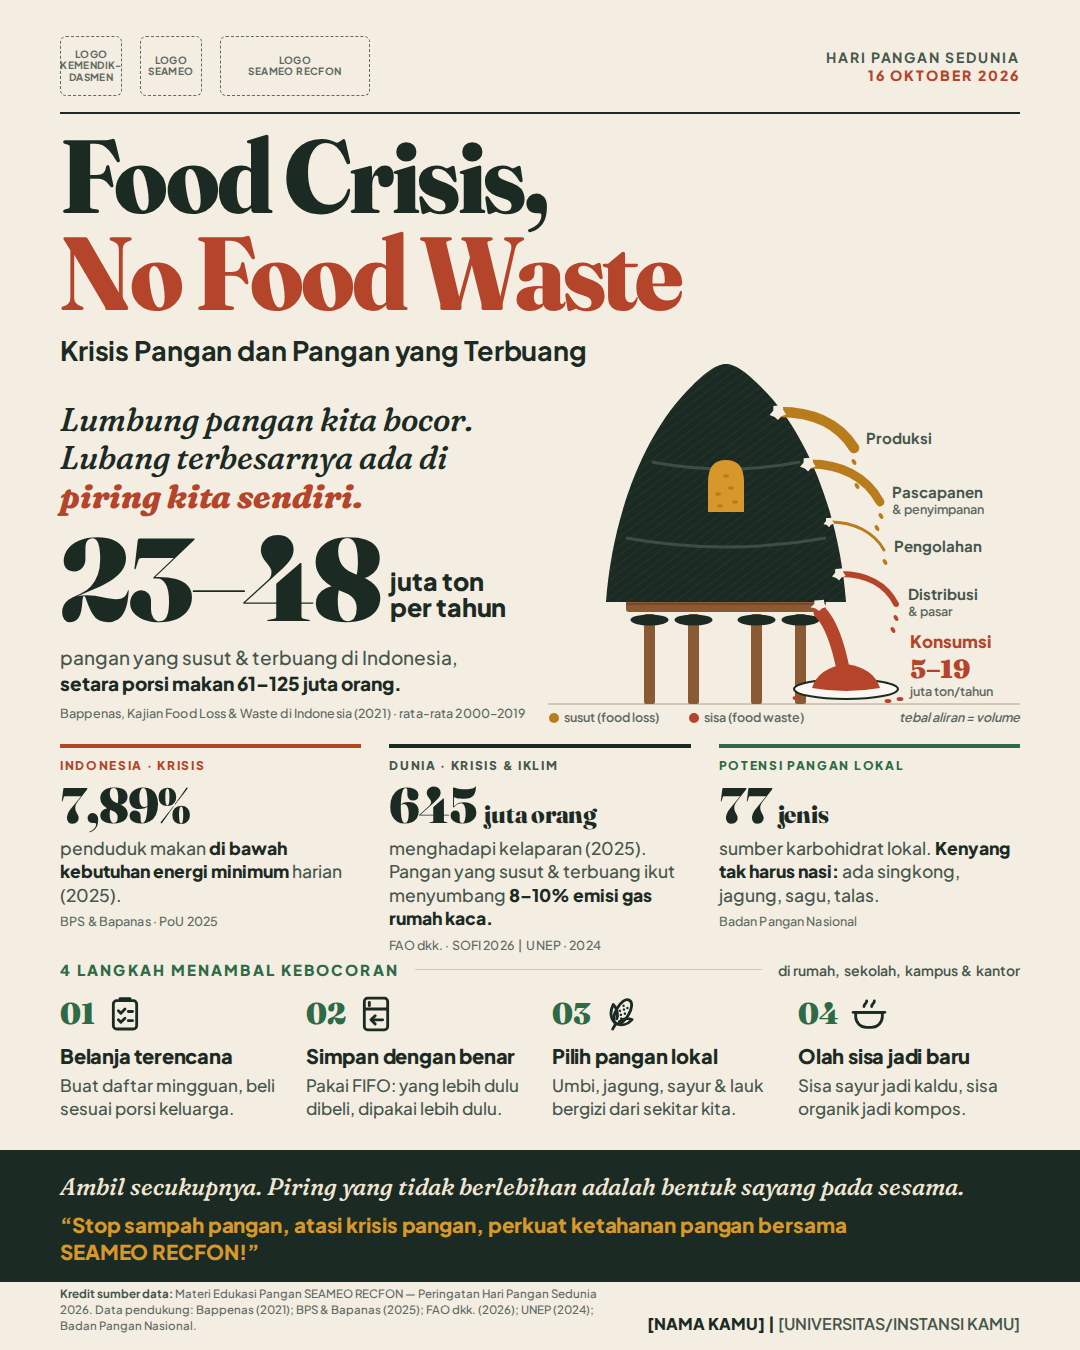
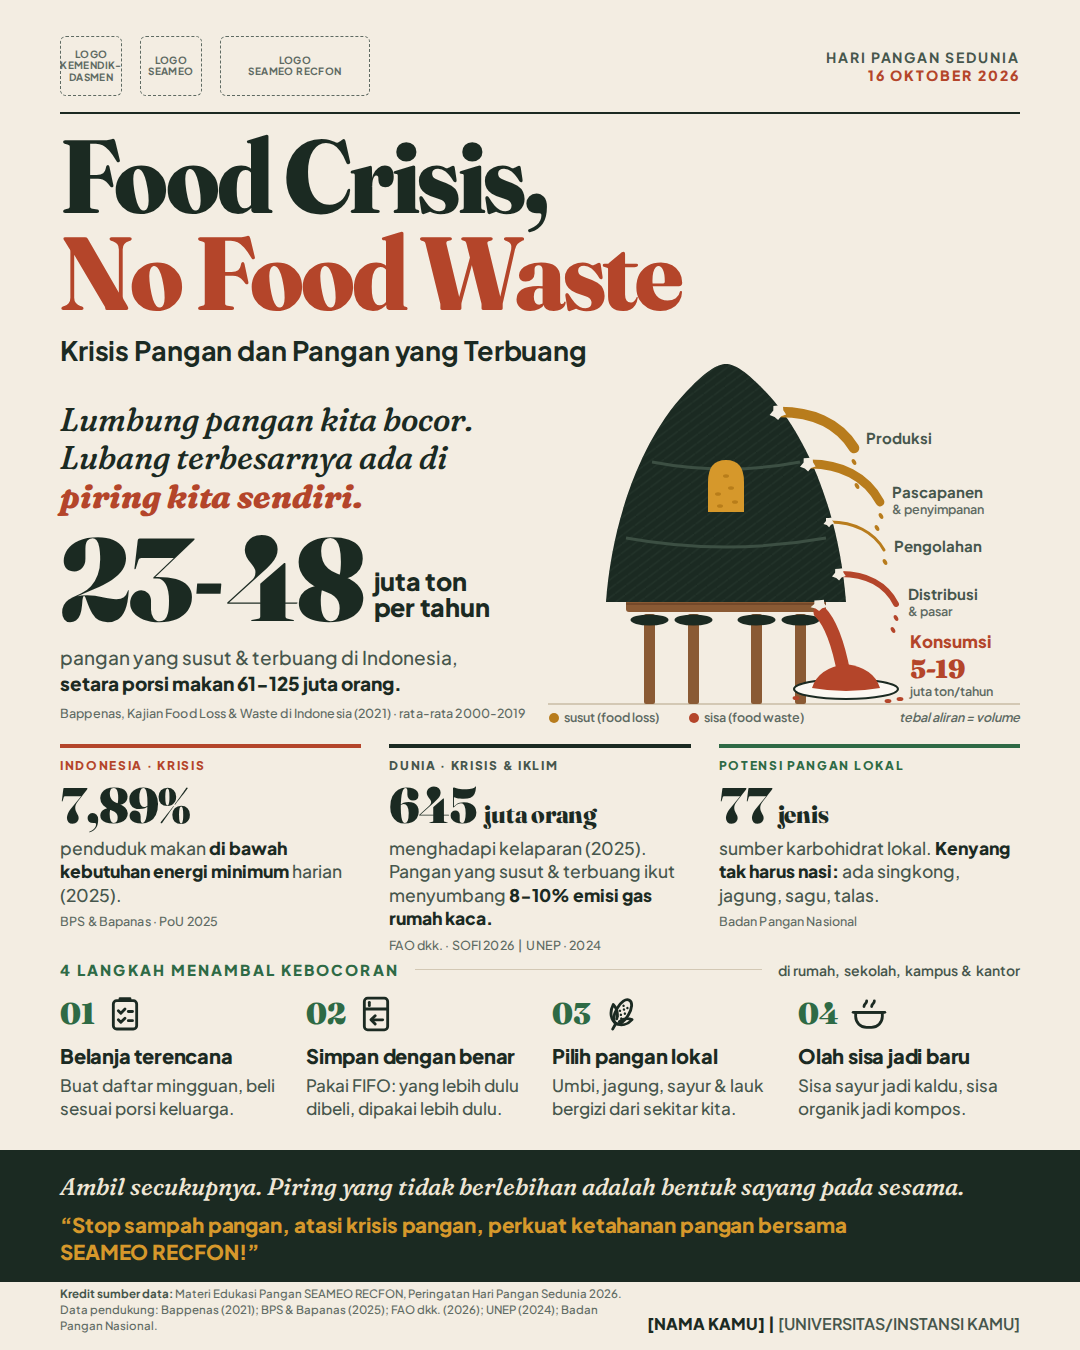
Use short hyphens instead of long dashes in the infographic
Claude-Session: https://claude.ai/code/session_01Tws1XWT9H7XcaYbG8vPbgd

Changed region(s): [[0.0611, 0.9333, 0.5806, 0.9956], [0.1833, 0.3733, 0.4583, 0.4667], [0.8556, 0.4667, 0.9167, 0.4978]]

diff --git a/world-food-day-2026/design/infografis.html b/world-food-day-2026/design/infografis.html
@@ -97,6 +97,7 @@
     font-size: 118px; line-height: .9; letter-spacing: -.03em; color: var(--ink);
     display: flex; align-items: flex-end; gap: 12px;
   }
+  .bignum .dash { display: inline-block; margin: 0 .05em 0 .03em; transform: translateY(-.02em); }
   .bignum .u {
     font: 800 25px/1.05 var(--sans); letter-spacing: -.01em; padding-bottom: 12px; color: var(--ink);
   }
@@ -222,9 +223,9 @@
 <p class="abs lead" data-zone="Pesan utama">Lumbung pangan kita bocor. Lubang terbesarnya ada di <em>piring kita sendiri.</em></p>
 
 <div class="abs bignum" data-zone="2 · Fakta 1 (angka kunci)">
-  <div class="n">23–48 <span class="u">juta ton<br>per tahun</span></div>
-  <p class="c">pangan yang susut &amp; terbuang di Indonesia, <strong>setara porsi makan 61–125 juta orang.</strong></p>
-  <p class="src">Bappenas, Kajian Food Loss &amp; Waste di Indonesia (2021) · rata-rata 2000–2019</p>
+  <div class="n"><span>23<span class="dash">-</span>48</span> <span class="u">juta ton<br>per tahun</span></div>
+  <p class="c">pangan yang susut &amp; terbuang di Indonesia, <strong>setara porsi makan 61-125 juta orang.</strong></p>
+  <p class="src">Bappenas, Kajian Food Loss &amp; Waste di Indonesia (2021) · rata-rata 2000-2019</p>
 </div>
 
 <!-- Ilustrasi utama: lebar aliran ~ nilai tengah volume per tahap (Bappenas 2021) -->
@@ -319,7 +320,7 @@
       <ellipse cx="340" cy="349" rx="3.4" ry="2"/>
     </g>
     <text class="lbl-big" x="362" y="296">Konsumsi</text>
-    <text class="lbl-num" x="362" y="326">5–19</text>
+    <text class="lbl-num" x="362" y="326">5-19</text>
     <text class="lbl-sub" x="362" y="344">juta ton/tahun</text>
   </g>
 
@@ -345,7 +346,7 @@
   <div class="fact">
     <div class="tag">Dunia · Krisis &amp; Iklim</div>
     <div class="n">645 <small>juta orang</small></div>
-    <p>menghadapi kelaparan (2025). Pangan yang susut &amp; terbuang ikut menyumbang <strong>8–10% emisi gas rumah kaca.</strong></p>
+    <p>menghadapi kelaparan (2025). Pangan yang susut &amp; terbuang ikut menyumbang <strong>8-10% emisi gas rumah kaca.</strong></p>
     <p class="src">FAO dkk. · SOFI 2026 &nbsp;|&nbsp; UNEP · 2024</p>
   </div>
   <div class="fact local">
@@ -397,7 +398,7 @@
 
 <!-- [BAGIAN 5b] Footer & kredensial -->
 <footer class="abs footer" data-zone="5 · Kredit sumber + nama (kanan bawah)">
-  <p class="credit"><b>Kredit sumber data:</b> Materi Edukasi Pangan SEAMEO RECFON — Peringatan Hari Pangan Sedunia 2026. Data pendukung: Bappenas (2021); BPS &amp; Bapanas (2025); FAO dkk. (2026); UNEP (2024); Badan Pangan Nasional.</p>
+  <p class="credit"><b>Kredit sumber data:</b> Materi Edukasi Pangan SEAMEO RECFON, Peringatan Hari Pangan Sedunia 2026. Data pendukung: Bappenas (2021); BPS &amp; Bapanas (2025); FAO dkk. (2026); UNEP (2024); Badan Pangan Nasional.</p>
   <p class="who" id="who"><span id="nama">[NAMA KAMU]</span> | <span id="instansi">[UNIVERSITAS/INSTANSI KAMU]</span></p>
 </footer>
 

diff --git a/world-food-day-2026/KONSEP-LENGKAP.md b/world-food-day-2026/KONSEP-LENGKAP.md
@@ -316,17 +316,19 @@ Prinsip: kalimat pendek, kata sehari-hari, tanpa jargon ("food loss & waste" han
 
 ### Konsep C (final): copy deck lengkap
 
+> Di desain, semua rentang angka memakai tanda hubung pendek (-), bukan tanda pisah panjang (–).
+
 | Bagian | Teks di desain |
 |---|---|
 | Kicker | HARI PANGAN SEDUNIA · 16 OKTOBER 2026 |
 | Judul (Bagian 1, wajib) | **Food Crisis, No Food Waste** |
 | Sub judul (wajib) | Krisis Pangan dan Pangan yang Terbuang |
 | Pesan utama | *Lumbung pangan kita bocor. Lubang terbesarnya ada di piring kita sendiri.* |
-| Fakta 1 (angka kunci) | **23–48 juta ton per tahun**: pangan yang susut & terbuang di Indonesia, setara porsi makan 61–125 juta orang. *(Bappenas, 2021 · rata-rata 2000–2019)* |
-| Label visual | Produksi · Pascapanen & penyimpanan · Pengolahan · Distribusi & pasar · **Konsumsi 5–19 juta ton/tahun** |
+| Fakta 1 (angka kunci) | **23-48 juta ton per tahun**: pangan yang susut & terbuang di Indonesia, setara porsi makan 61-125 juta orang. *(Bappenas, 2021 · rata-rata 2000-2019)* |
+| Label visual | Produksi · Pascapanen & penyimpanan · Pengolahan · Distribusi & pasar · **Konsumsi 5-19 juta ton/tahun** |
 | Legenda | ● susut (food loss) ● sisa (food waste) · tebal aliran = volume |
 | Fakta 2a (Indonesia) | **7,89%** penduduk makan di bawah kebutuhan energi minimum harian (2025). *(BPS & Bapanas · PoU 2025)* |
-| Fakta 2b (Dunia) | **645 juta orang** menghadapi kelaparan (2025). Pangan yang susut & terbuang ikut menyumbang 8–10% emisi gas rumah kaca. *(FAO dkk. · SOFI 2026, UNEP · 2024)* |
+| Fakta 2b (Dunia) | **645 juta orang** menghadapi kelaparan (2025). Pangan yang susut & terbuang ikut menyumbang 8-10% emisi gas rumah kaca. *(FAO dkk. · SOFI 2026, UNEP · 2024)* |
 | Fakta 3 (lokal) | **77 jenis** sumber karbohidrat lokal. Kenyang tak harus nasi: ada singkong, jagung, sagu, talas. *(Badan Pangan Nasional)* |
 | Judul solusi (Bagian 3) | 4 LANGKAH MENAMBAL KEBOCORAN · *di rumah, sekolah, kampus & kantor* |
 | Langkah 1 | **Belanja terencana.** Buat daftar mingguan, beli sesuai porsi keluarga. |
@@ -335,7 +337,7 @@ Prinsip: kalimat pendek, kata sehari-hari, tanpa jargon ("food loss & waste" han
 | Langkah 4 | **Olah sisa jadi baru.** Sisa sayur jadi kaldu, sisa organik jadi kompos. |
 | Ajakan (Bagian 4) | *Ambil secukupnya. Piring yang tidak berlebihan adalah bentuk sayang pada sesama.* |
 | Slogan wajib (verbatim) | **"Stop sampah pangan, atasi krisis pangan, perkuat ketahanan pangan bersama SEAMEO RECFON!"** |
-| Kredit (Bagian 5, wajib) | Kredit sumber data: Materi Edukasi Pangan SEAMEO RECFON — Peringatan Hari Pangan Sedunia 2026. Data pendukung: Bappenas (2021); BPS & Bapanas (2025); FAO dkk. (2026); UNEP (2024); Badan Pangan Nasional. |
+| Kredit (Bagian 5, wajib) | Kredit sumber data: Materi Edukasi Pangan SEAMEO RECFON, Peringatan Hari Pangan Sedunia 2026. Data pendukung: Bappenas (2021); BPS & Bapanas (2025); FAO dkk. (2026); UNEP (2024); Badan Pangan Nasional. |
 | Kanan bawah (wajib) | **[NAMA KAMU] \| [UNIVERSITAS/INSTANSI KAMU]** |
 
 Keempat langkah diringkas dari naskah panitia (Smart Planning, Store Properly/FIFO, Go Local, Zero-Waste Cooking). Kalimat ajakan diadaptasi dari contoh ajakan di naskah.
@@ -495,3 +497,4 @@ node scripts/render.mjs --mode wireframe
 | 4 | Dokumen belum sinkron dengan desain (copy deck, palet, storyboard, checklist) | Semua bagian diselaraskan. Checklist ditambah butir kontras dan uji nama panjang |
 | 5 | Label zona di wireframe menutupi konten sehingga sulit dipakai sebagai acuan kerja manual | Konten diredupkan (38%) dalam mode wireframe, jadi zona, grid, dan koordinat terbaca jelas |
 | 6 | Pemeriksaan ulang menyeluruh (data, naskah wajib, kontras, overflow, nama panjang, ponsel 390 px) | Tidak ada temuan baru |
+| 7 | Tanda pisah panjang (– dan —) terlihat kurang bagus di desain | Semua rentang angka memakai tanda hubung pendek (-). Di angka besar "23-48" diberi jarak kecil agar tidak menempel. Tanda — di baris kredit diganti koma |
